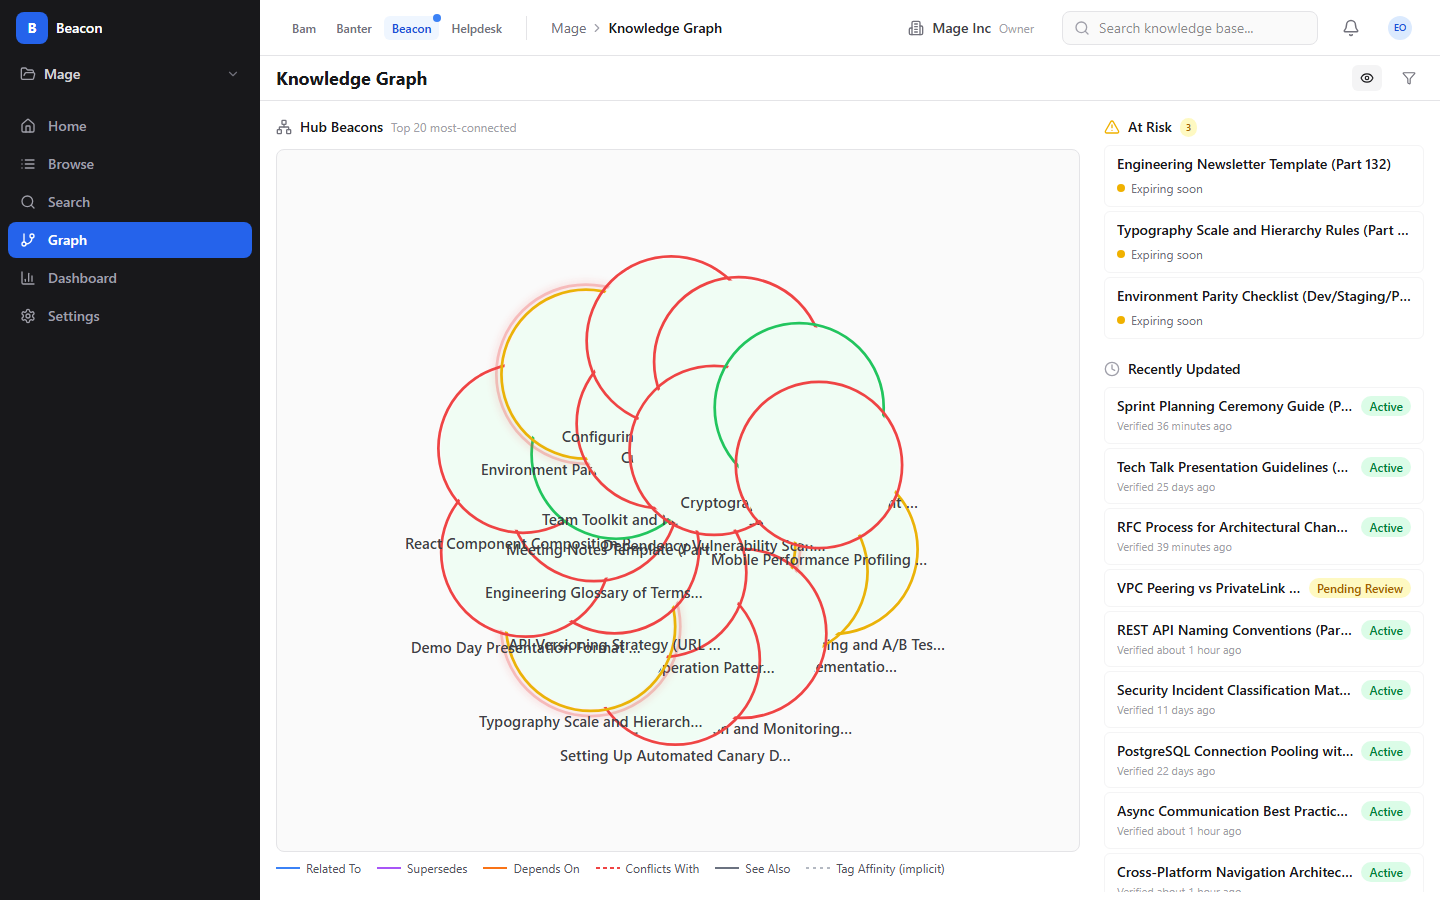
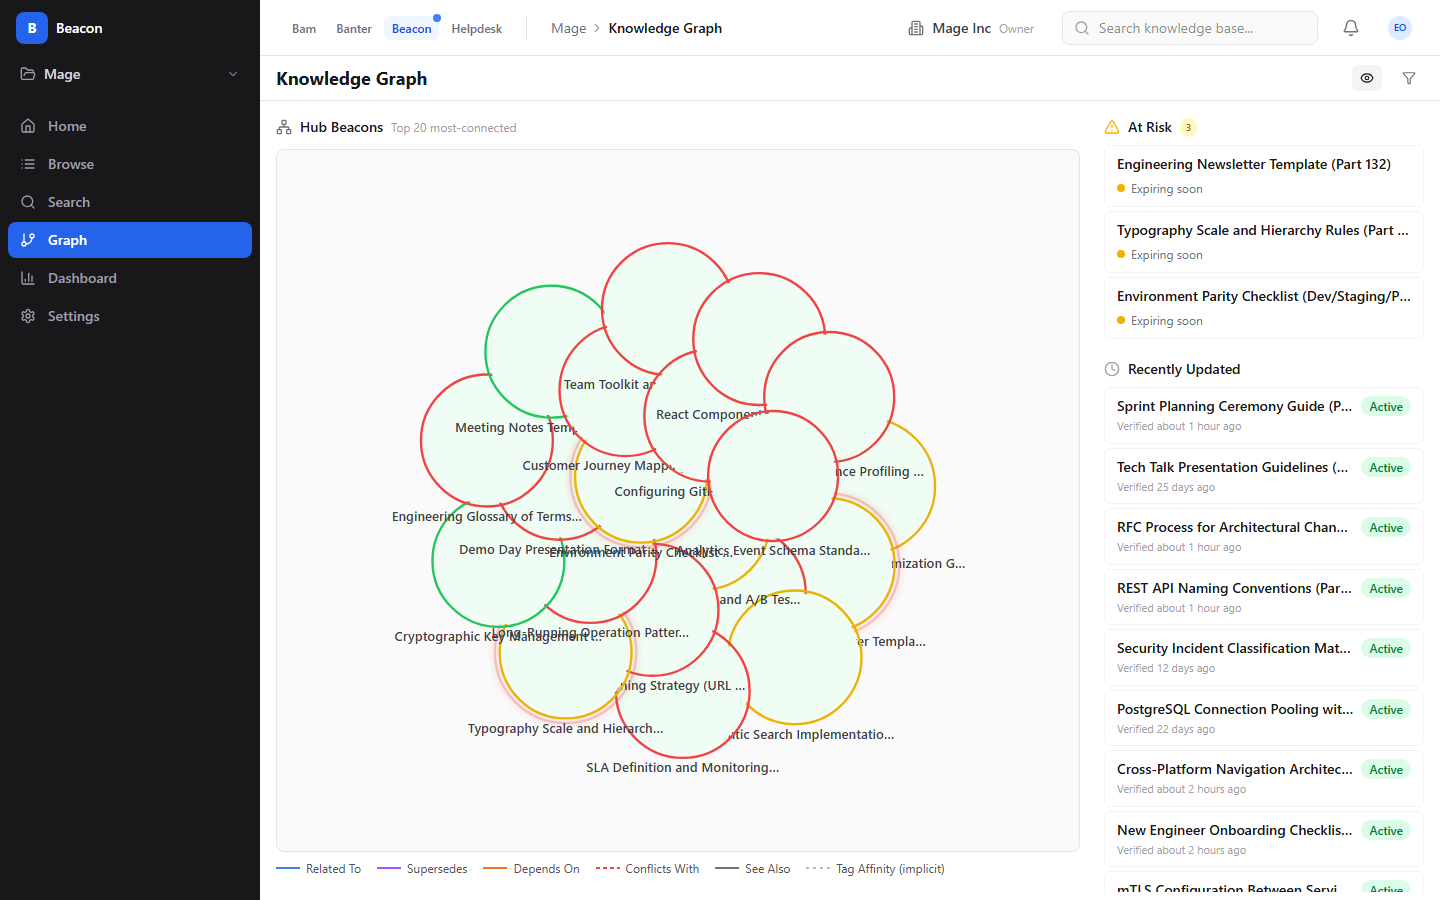
beacon: update screenshots after frontend fixes, fix README image paths
- Re-capture all 7 Beacon screenshots with Playwright after fixing
  stats, detail rendering, graph layout, and pagination
- Fix README image paths: beacon-knowledge-home.png → beacon-home.png,
  beacon-graph-explorer.png → beacon-graph.png
- Update site tool count 111 → 140 (gitignored, in Docker image only)

Changed region(s): [[0.2812, 0.28, 0.6562, 0.8711], [0.7812, 0.5911, 1.0, 0.9956], [0.8125, 0.4667, 0.875, 0.4978]]

diff --git a/README.md b/README.md
@@ -500,7 +500,7 @@ Beacon is the knowledge base platform built into the BigBlueBam suite. It keeps 
 Unlike a wiki that silently rots, Beacon treats every article as a living document with a verification lifecycle. Governance policies define how often content must be re-verified; stale Beacons are surfaced automatically through the **Fridge Cleanout** workflow so nothing quietly expires into irrelevance.
 
 <p align="center">
-  <img src="images/beacon-knowledge-home.png" alt="Beacon Knowledge Home" width="100%" />
+  <img src="images/beacon-home.png" alt="Beacon Knowledge Home" width="100%" />
 </p>
 <p align="center"><em>Knowledge Home -- hub nodes, recent activity, and expiry alerts at a glance</em></p>
 
@@ -517,7 +517,7 @@ Unlike a wiki that silently rots, Beacon treats every article as a living docume
 | **Hierarchical Policies** | Org-level defaults with project-level overrides; `beacon_policy_resolve` previews the effective merged policy |
 
 <p align="center">
-  <img src="images/beacon-graph-explorer.png" alt="Beacon Graph Explorer" width="100%" />
+  <img src="images/beacon-graph.png" alt="Beacon Graph Explorer" width="100%" />
 </p>
 <p align="center"><em>Knowledge Graph Explorer -- visualize connections between Beacons</em></p>
 

diff --git a/docs/beacon-frontend-fix-plan.md b/docs/beacon-frontend-fix-plan.md
@@ -1,6 +1,6 @@
 # Beacon Frontend Fix Plan
 
-**Status:** Ready to execute
+**Status:** Phase A + C (P0/P1) complete
 **Branch:** `beacon`
 **Date:** 2026-04-07
 
